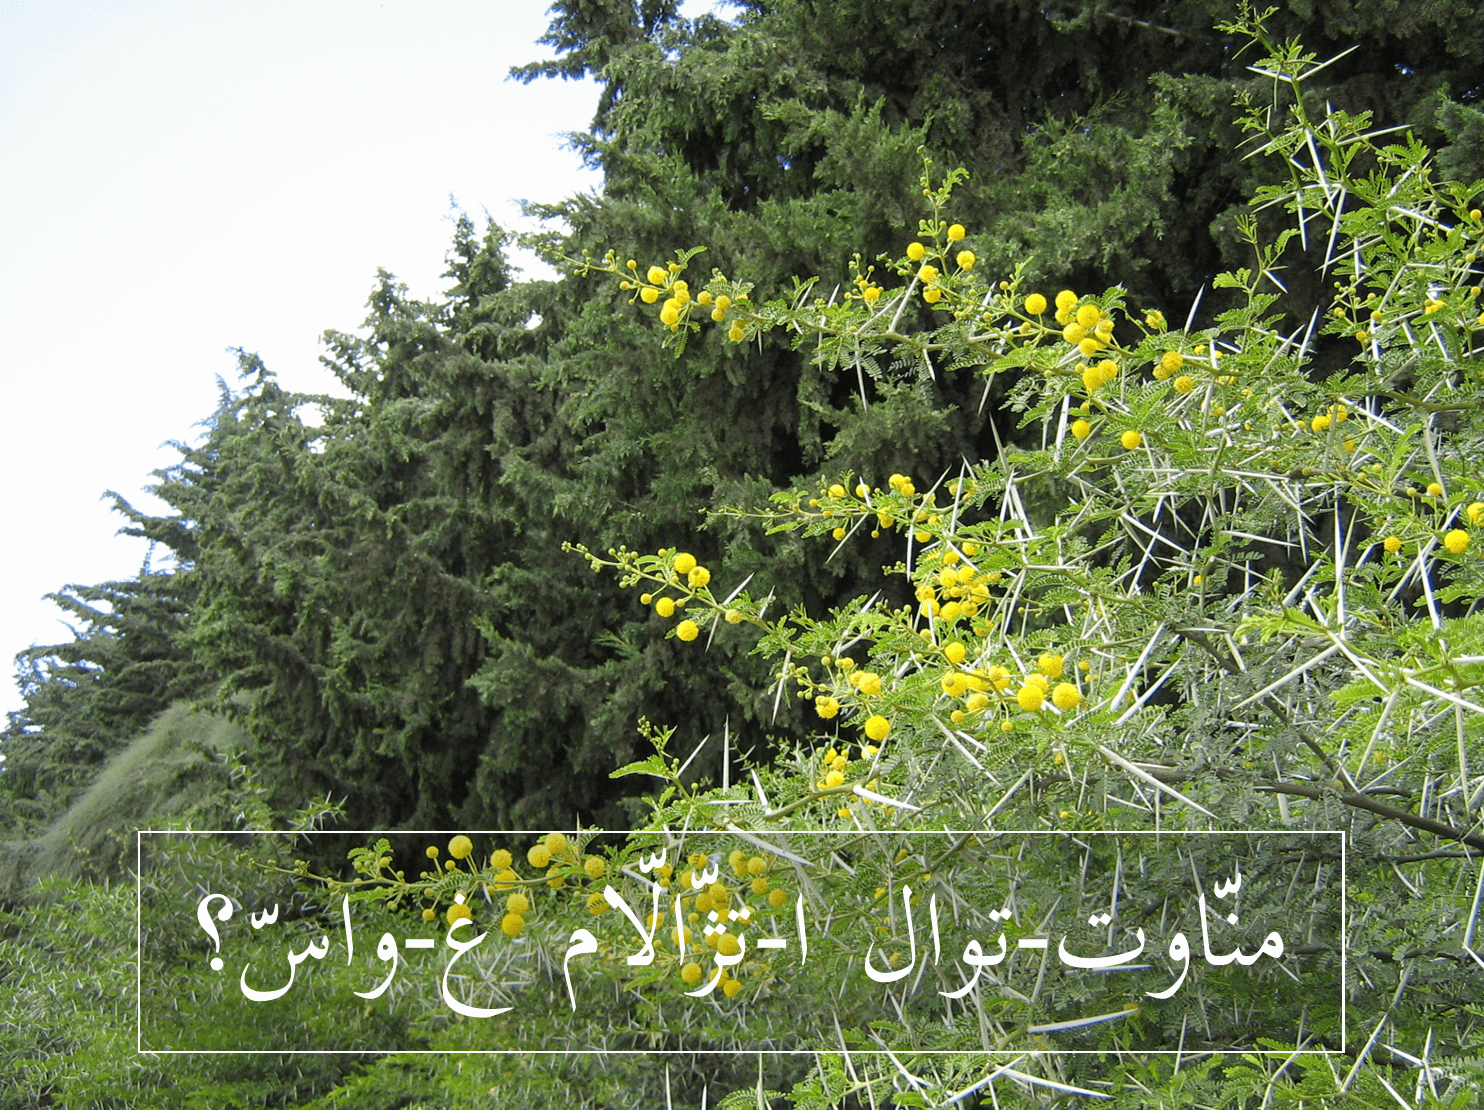
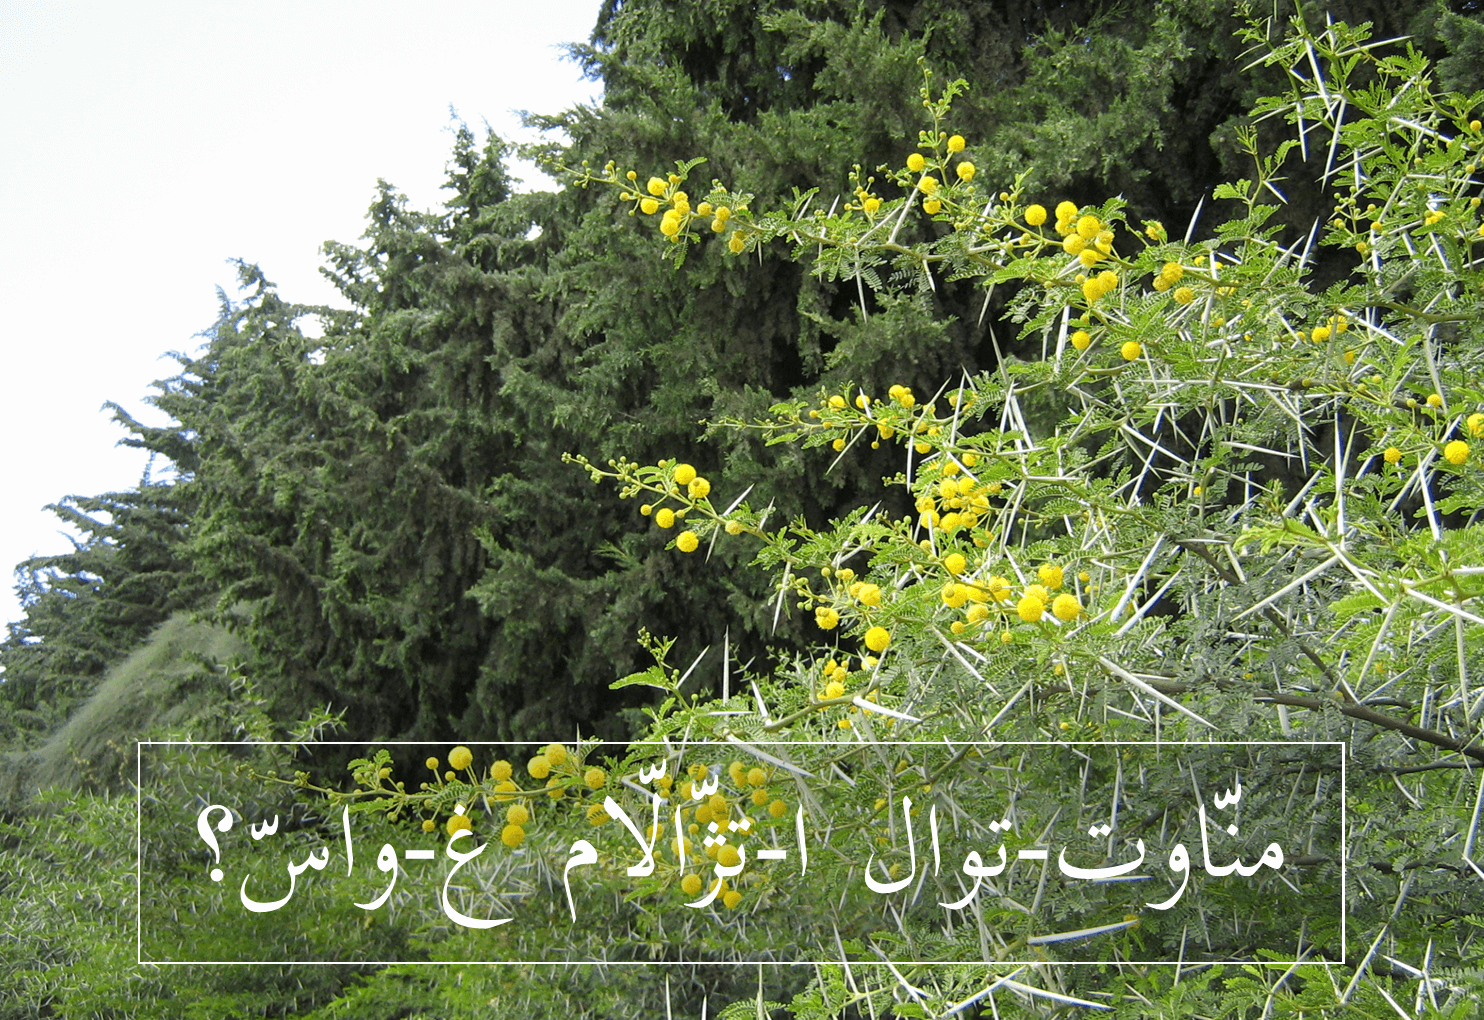
questions image changes

diff --git a/src/routes/questions/Questions.tsx b/src/routes/questions/Questions.tsx
@@ -73,7 +73,7 @@ function Questions() {
                   }}>
                   <img
                     style={{
-                      maxWidth: matches ? '23vw' : '90vw',
+                      maxWidth: matches ? '22vw' : '90vw',
                     }}
                     src={`../../assets/images/questions/iseqsitn${
                       index + 1
